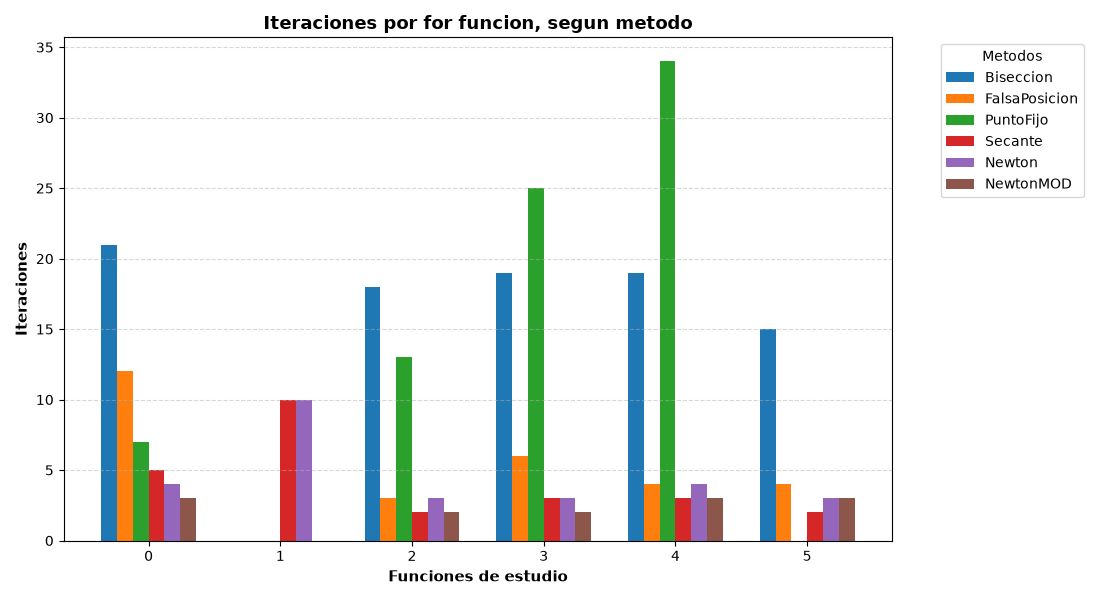
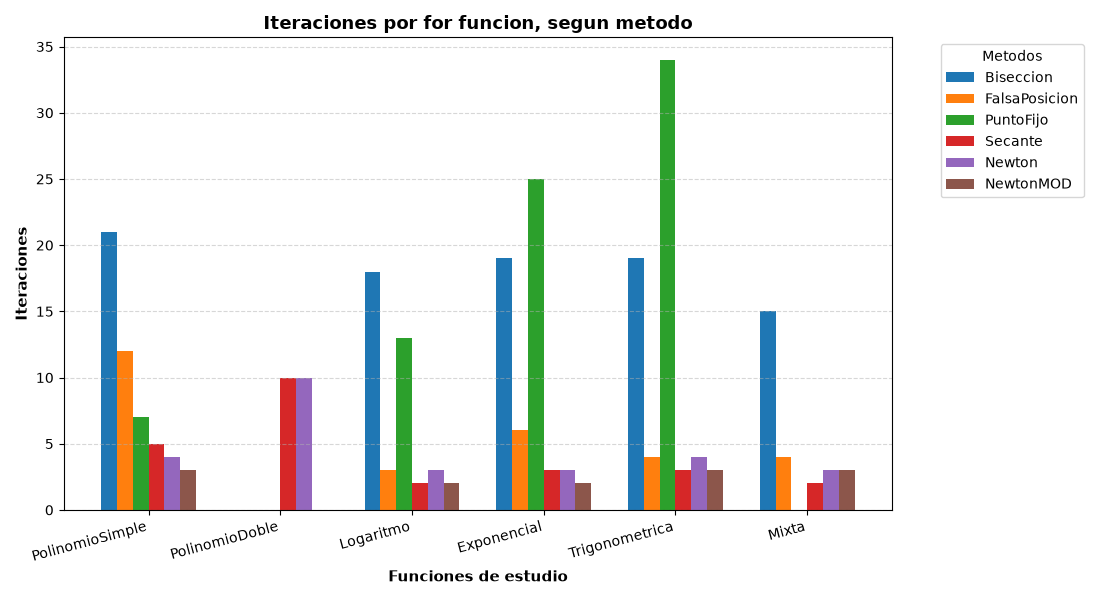
Cambios en refactorizcion

diff --git a/src/main.py b/src/main.py
@@ -1,4 +1,3 @@
-import sympy as sp
 import matplotlib.pyplot as plt
 import csv
 from scripts.biseccion import biseccion #funcion,a,b,tolerancia,max_iteraciones
@@ -10,6 +9,7 @@ from scripts.nr_modificado import newton_raphson_modificado #funcion,x0,toleranc
 from data.casos_estudio import CE
 
 
+
 t = CE["Tolerancia"]
 it = CE["Iteraciones"]
 ps = CE["PolinomioSimple"]
@@ -18,6 +18,7 @@ lo = CE["Logaritmo"]
 ex = CE["Exponencial"]
 tri = CE["Trigonometrica"]
 mi = CE["Mixta"]
+
 
 
 def obtener_resultados():
@@ -71,11 +72,45 @@ def obtener_resultados():
 
     return func_ps, func_pd, func_log, func_exp, func_tri, func_mix
 
+#n = 0 -> Raiz  ;  n = 1 -> Historial errores  ;  n = -1 -> Iteraciones 
+def obtener_datos_resultado(resultados, n):
+    datos = []
+    for j in range(0, len(resultados)):
+        val_metodos = []
+        for i in range(0, len(resultados[j])):
+            val_dato = resultados[j][i][n]
+            if val_dato is None or isinstance(val_dato, str):
+                val_metodos.append(None)
+            else:
+                val_metodos.append(val_dato)
+        datos.append(val_metodos)
+    return datos
 
-def crear_csv(resultados):
-    funciones = ["PolinomicaSimple", "PolinomicaDoble", "Logaritmica", "Exponencial", "Trigonometrica", "Mixta"]
-    metodos = ["Biseccion", "FalsaPosicion", "PuntoFijo", "Secante", "NewtonRaphson", "NewtonRaphsonMOD"]
+def mejor_raiz(resultados, funciones):
+    raices = obtener_datos_resultado(resultados, 0)
 
+    mejores_indices = []
+    for i in range(0, len(funciones)):
+        residuos_metodos = []
+        for j in range(len(raices[i])):
+            if raices[i][j] != None:
+                residuos_metodos.append(abs(funciones[i](raices[i][j])))
+            else: 
+                residuos_metodos.append(9999)
+
+        min_residuo = min(residuos_metodos)
+        mejor_indice = residuos_metodos.index(min_residuo)
+        mejores_indices.append(mejor_indice)
+
+    mejores_puntos = []
+    for i in range(0, 6):
+        mejores_puntos.append(raices[i][mejores_indices[i]])
+
+    return mejores_puntos
+
+
+
+def crear_csv(resultados, funciones, metodos):
     with open("src\\data\\resultados.csv", "w", newline="", encoding="utf-8") as archivo:
         escritor = csv.writer(archivo)
         escritor.writerow(["Metodo"] + funciones)
@@ -91,6 +126,23 @@ def crear_csv(resultados):
 
                 fila.append(datos)
             escritor.writerow(fila)
+
+def csv_funciones(resultados, nombres_funciones, nombres_metodos, fx):  
+    #NombreFuncion, Funcion, Metodo, x, f(x)
+    raices_totales = obtener_datos_resultado(resultados, 0)
+    funciones = ["x**3 - x - 2", "(x - 2)**2", "ln(x) + x - 4", "exp(-x) - x", "cos(x) - x", "sqrt(x) - cos(x)"]
+
+    with open("src\\data\\xfx_evalauda.csv", mode = "w", newline = "", encoding = "utf-8") as file:
+        escribir = csv.writer(file)
+        escribir.writerow(["NombreFuncion", "Funcion", "Metodo", "x", "f(x)"])
+        for raices_funciones, nombre, fun, fx_evaluada in zip(raices_totales, nombres_funciones, funciones, fx):
+            for raiz, metodo in zip(raices_funciones, nombres_metodos):
+                if raiz == None:
+                    escribir.writerow([nombre, fun, metodo, "NAN", "NAN"])
+                else:
+                    escribir.writerow([nombre, fun, metodo, raiz, fx_evaluada(raiz)])
+
+
 
 def grafico_FuncionRaiz(mejores_puntos):
     _, ax = plt.subplots(2, 3)
@@ -166,10 +218,7 @@ def grafico_FuncionRaiz(mejores_puntos):
 #Biseccion -> FalsaPosicion -> PuntoFijo -> Secante -> NewtonRaphson ->NewtonRaphsonModificado
 #Funciones: PoliniomioSimple[0], PolinomioDoble[1], Logaritmica[2], Exponencial[3], Trignonometrica[4], Mixta[5]
 #Errores: Resultados[0][metodo][1] 
-def grafico_ErrorIteracion(resultados):
-    nombres_funciones = list(CE.keys())[0:-2]
-    nombres_medotos = ["Biseccion", "FalsaPosicion", "PuntoFijo", "Secante", "Newton", "NewtonMOD"]
-
+def grafico_ErrorIteracion(resultados, nombres_funciones, nombres_medotos):
     historial_errores = obtener_datos_resultado(resultados, 1)
     for i in range(len(historial_errores)):
         nombre_func = nombres_funciones[i]
@@ -192,18 +241,13 @@ def grafico_ErrorIteracion(resultados):
         plt.savefig(f"src\\assets\\{nombre_func}.png") 
         plt.close()           
 
-def grafico_CantidadIteraciones(resultados):
-    nombres_funciones = list(CE.keys())[0:-2]
-    nombres_metodos = ["Biseccion", "FalsaPosicion", "PuntoFijo", "Secante", "Newton", "NewtonMOD"]
-
+def grafico_CantidadIteraciones(resultados, nombres_funciones, nombres_metodos):
     iteraciones = obtener_datos_resultado(resultados, -1)
-    
     num_funciones = len(nombres_funciones)
     num_metodos = len(nombres_metodos)
     
     x = list(range(num_funciones))
     ancho = 0.12  
-
     plt.figure(figsize=(11, 6))
 
     for i in range(num_metodos):
@@ -215,60 +259,17 @@ def grafico_CantidadIteraciones(resultados):
                 pos_x = x[j] + (i - 2.5) * ancho
                 x_barras.append(pos_x)
                 y_barras.append(val)
-                
         if x_barras:
             plt.bar(x_barras, y_barras, width=ancho, label=nombres_metodos[i])
 
+    plt.xticks(x, nombres_funciones, rotation=15, ha='right')
     plt.xlabel('Funciones de estudio', fontsize=11, fontweight='bold')
     plt.ylabel('Iteraciones', fontsize=11, fontweight='bold')
     plt.title('Iteraciones por for funcion, segun metodo', fontsize=13, fontweight='bold')
-    
     plt.legend(title='Metodos', bbox_to_anchor=(1.05, 1), loc='upper left')
     plt.grid(axis='y', linestyle='--', alpha=0.5)
     plt.tight_layout()
-    
     plt.savefig(f"src\\assets\\Iteraciones por funcion.png")
-
-
-
-
-
-#n = 0 -> Raiz  ;  n = 1 -> Historial errores  ;  n = 2 -> Iteraciones 
-def obtener_datos_resultado(resultados, n):
-    datos = []
-    for j in range(0, len(resultados)):
-        val_metodos = []
-        for i in range(0, len(resultados[j])):
-            val_dato = resultados[j][i][n]
-            if val_dato is None or isinstance(val_dato, str):
-                val_metodos.append(None)
-            else:
-                val_metodos.append(val_dato)
-        datos.append(val_metodos)
-    return datos
-
-def mejor_raiz(resultados, funciones):
-    raices = obtener_datos_resultado(resultados, 0)
-
-    mejores_indices = []
-    for i in range(0, len(funciones)):
-        residuos_metodos = []
-        for j in range(len(raices[i])):
-            if raices[i][j] != None:
-                residuos_metodos.append(abs(funciones[i](raices[i][j])))
-            else: 
-                residuos_metodos.append(9999)
-
-        min_residuo = min(residuos_metodos)
-        mejor_indice = residuos_metodos.index(min_residuo)
-        mejores_indices.append(mejor_indice)
-
-    mejores_puntos = []
-    for i in range(0, 6):
-        mejores_puntos.append(raices[i][mejores_indices[i]])
-
-    return mejores_puntos
-
 
 
 
@@ -276,9 +277,13 @@ if __name__ == "__main__":
     func_ps, func_pd, func_log, func_exp, func_tri, func_mix = obtener_resultados()
     resultados = [func_ps, func_pd, func_log, func_exp, func_tri, func_mix]
     funciones = [ps["f(x)"], pd["f(x)"], lo["f(x)"], ex["f(x)"], tri["f(x)"], mi["f(x)"]]
-
+    nombres_funciones = list(CE.keys())[0:-2]
+    nombres_medotos = ["Biseccion", "FalsaPosicion", "PuntoFijo", "Secante", "Newton", "NewtonMOD"]
     mejores_puntos = mejor_raiz(resultados, funciones)
 
+    crear_csv(resultados, nombres_funciones, nombres_medotos)
+    csv_funciones(resultados, nombres_funciones, nombres_medotos, funciones)
+
     grafico_FuncionRaiz(mejores_puntos)
-    grafico_CantidadIteraciones(resultados)
-    grafico_ErrorIteracion(resultados)
+    grafico_ErrorIteracion(resultados, nombres_funciones, nombres_medotos)
+    grafico_CantidadIteraciones(resultados, nombres_funciones, nombres_medotos)
